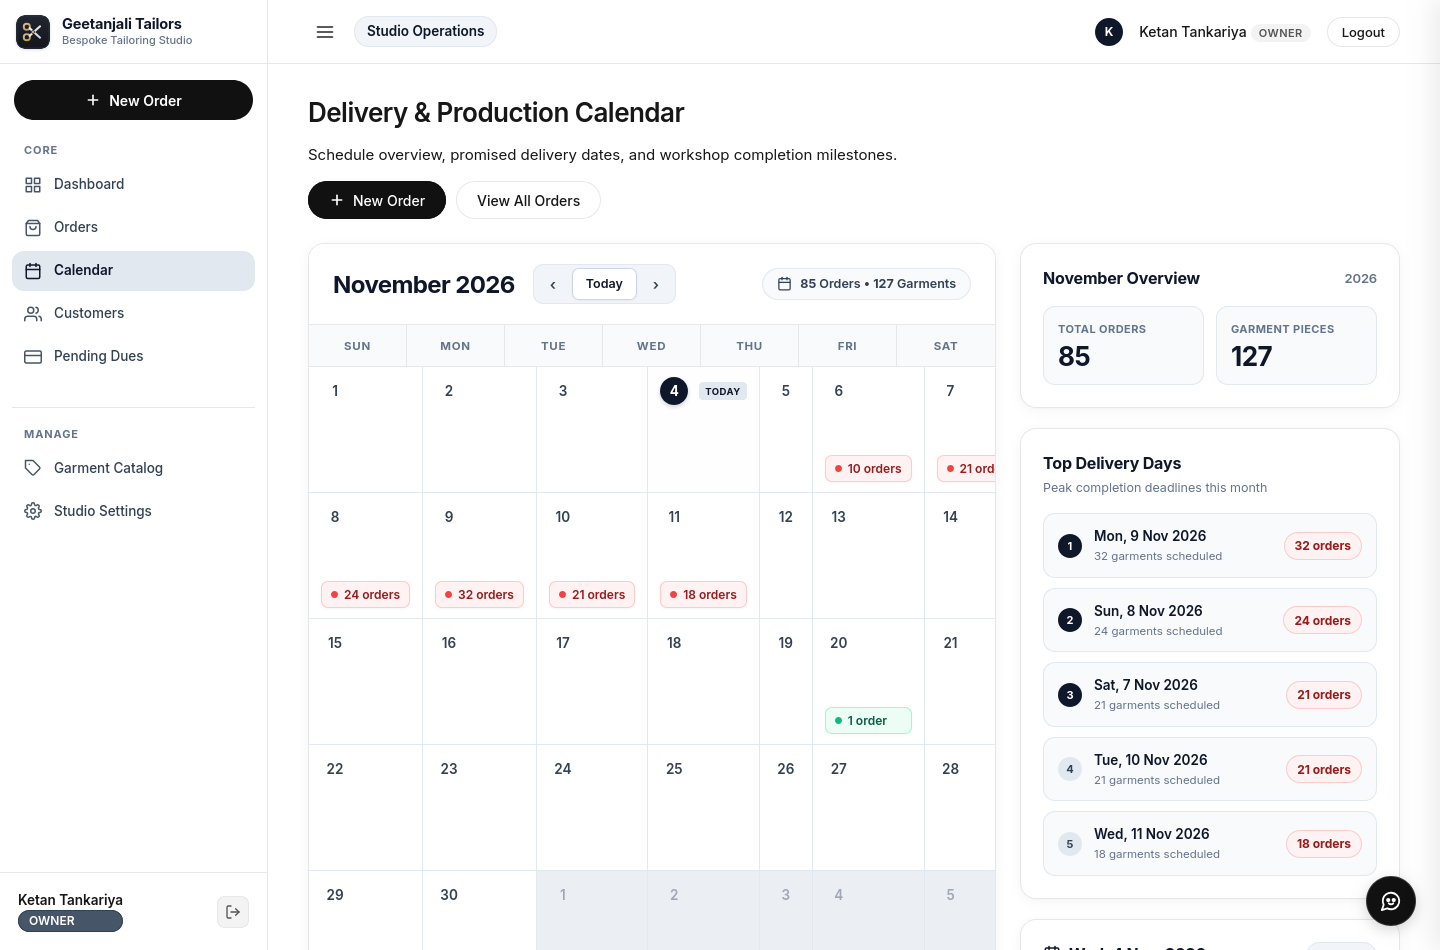
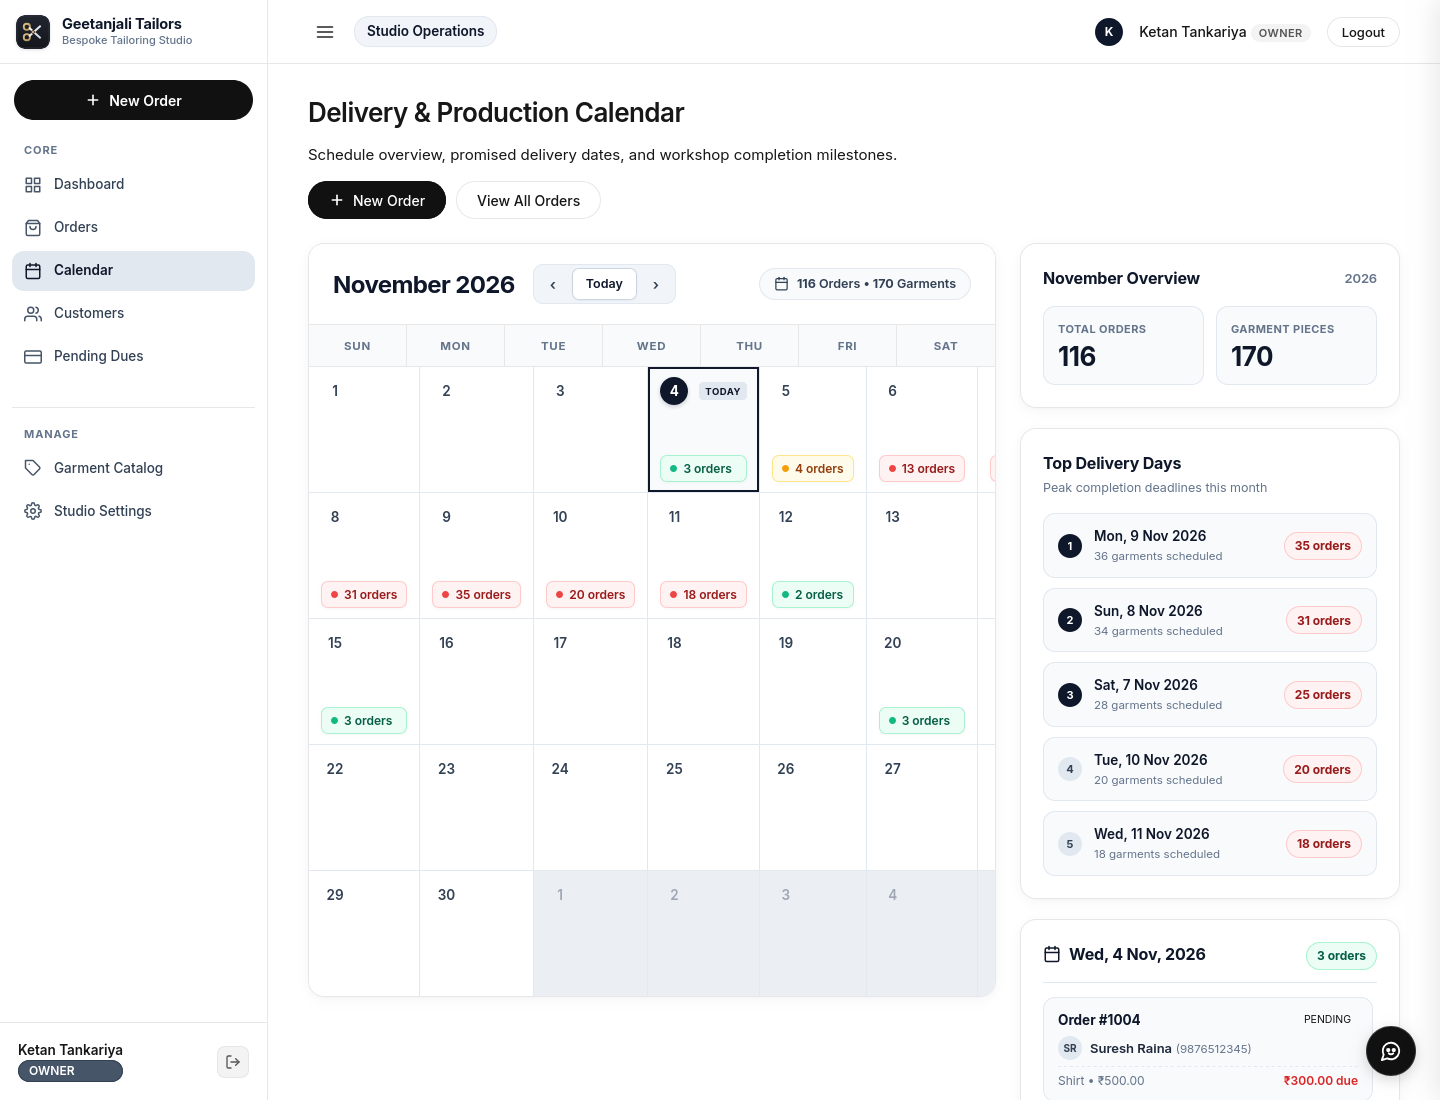
docs: replace Google Calendar copycat references with bespoke studio scheduler and update calendar screenshot

diff --git a/System/src/main/resources/templates/calendar/index.html b/System/src/main/resources/templates/calendar/index.html
@@ -39,7 +39,7 @@
         <!-- Master Calendar Layout Grid: Left Boxed Grid + Right Month Sidebar -->
         <div class="calendar-page-layout">
 
-            <!-- LEFT COLUMN: GOOGLE CALENDAR-STYLE BOXED MONTH VIEW -->
+            <!-- LEFT COLUMN: PRODUCTION CALENDAR MONTH VIEW -->
             <section class="calendar-card">
 
                 <!-- Calendar Header Bar with Navigation Controls -->

diff --git a/System/src/main/resources/static/js/calendar.js b/System/src/main/resources/static/js/calendar.js
@@ -1,4 +1,4 @@
-// calendar.js: Interactive controller for Google Calendar-style delivery scheduler
+// calendar.js: Interactive controller for production delivery scheduler
 document.addEventListener('DOMContentLoaded', function() {
     const dayBoxes = document.querySelectorAll('.calendar-day-box');
     const selectedDayTitle = document.getElementById('selectedDayTitle');

diff --git a/System/src/main/resources/static/css/calendar.css b/System/src/main/resources/static/css/calendar.css
@@ -1,5 +1,5 @@
 /* ==========================================================================
-   GEETANJALI TAILORS - MODERN GOOGLE CALENDAR-STYLE DELIVERY SCHEDULER
+   GEETANJALI TAILORS - PRODUCTION & DELIVERY WORKLOAD SCHEDULER
    Sarvam AI / Indus SaaS Theme - Refined Executive Edition
    ========================================================================== */
 

diff --git a/System/src/main/java/com/geetanjali/backend/service/CalendarService.java b/System/src/main/java/com/geetanjali/backend/service/CalendarService.java
@@ -29,7 +29,7 @@ import java.util.Map;
 import java.util.Set;
 import java.util.stream.Collectors;
 
-// CalendarService: Manages Google Calendar-style delivery scheduling, daily capacity rules,
+// CalendarService: Manages studio delivery scheduling, daily capacity rules,
 // overbooking detection (5 soft limit, 10 hard limit), and monthly delivery metrics.
 @Service
 @Transactional(readOnly = true)
@@ -57,14 +57,14 @@ public class CalendarService {
         return DayCapacityDto.of(date, orderCount, itemCount);
     }
 
-    // Builds the full Google Calendar style boxed month view with 7-column Sun..Sat grid,
+    // Builds the full studio boxed month view with 7-column Sun..Sat grid,
     // order tags, color-coded capacity indicators, and monthly top delivery days sidebar.
     public MonthCalendarDto getMonthCalendar(int year, int monthValue) {
         LocalDate today = LocalDate.now(clock);
         LocalDate firstDayOfMonth = LocalDate.of(year, monthValue, 1);
         LocalDate lastDayOfMonth = firstDayOfMonth.plusMonths(1).minusDays(1);
 
-        // Google Calendar Sun-first layout: Sunday = 0, Monday = 1, ..., Saturday = 6
+        // Standard 7-day Sunday-first layout: Sunday = 0, Monday = 1, ..., Saturday = 6
         int startDayOfWeek = firstDayOfMonth.getDayOfWeek().getValue() % 7;
         LocalDate gridStartDate = firstDayOfMonth.minusDays(startDayOfWeek);
 

diff --git a/System/src/main/java/com/geetanjali/backend/dto/calendar/CalendarDaySummaryDto.java b/System/src/main/java/com/geetanjali/backend/dto/calendar/CalendarDaySummaryDto.java
@@ -3,7 +3,7 @@ package com.geetanjali.backend.dto.calendar;
 import java.time.LocalDate;
 import java.util.List;
 
-// CalendarDaySummaryDto: Represents a single day box within the Google Calendar style grid.
+// CalendarDaySummaryDto: Represents a single day cell within the studio production grid.
 public record CalendarDaySummaryDto(
         LocalDate date,
         int dayOfMonth,
@@ -11,7 +11,7 @@ public record CalendarDaySummaryDto(
         boolean isToday,
         long orderCount,
         long itemCount,
-        String tagColor,       // "NONE", "GREEN" (< 4), "YELLOW" (4-5), "RED" (5+)
+        String tagColor,       // "NONE", "GREEN", "YELLOW", "RED"
         String tagLabel,       // e.g. "3 orders", "5 orders"
         List<CalendarOrderItemDto> items,
         String itemsJson

diff --git a/System/src/main/java/com/geetanjali/backend/service/assistant/ToolRegistryService.java b/System/src/main/java/com/geetanjali/backend/service/assistant/ToolRegistryService.java
@@ -218,7 +218,7 @@ public class ToolRegistryService {
         calProps.put("month", Map.of("type", "integer", "description", "Target month (1 to 12)."));
         tools.add(new ToolDefinition(
                 "getCalendarSchedule",
-                "Retrieves monthly Google Calendar delivery schedule, total monthly orders, and peak delivery days.",
+                "Retrieves monthly studio delivery schedule, total monthly orders, and peak delivery days.",
                 Map.of("type", "object", "properties", calProps)
         ));
 

diff --git a/System/src/main/java/com/geetanjali/backend/controller/CalendarController.java b/System/src/main/java/com/geetanjali/backend/controller/CalendarController.java
@@ -12,7 +12,7 @@ import org.springframework.web.bind.annotation.RequestParam;
 import java.time.Clock;
 import java.time.LocalDate;
 
-// CalendarController: Serves the Google Calendar-style boxed delivery schedule page,
+// CalendarController: Serves the studio delivery and production schedule page,
 // month view navigation, capacity tags, and monthly metrics sidebar.
 @Controller
 @RequestMapping("/calendar")

diff --git a/docs/04-ORDER_LIFECYCLE_FINANCIALS_AND_CAPACITY_SCHEDULER.md b/docs/04-ORDER_LIFECYCLE_FINANCIALS_AND_CAPACITY_SCHEDULER.md
@@ -51,30 +51,30 @@ graph TD
     
     Check --> TierEval{How many orders already?}
     
-    TierEval -- "0 to 4 Orders" --> Green["GREEN TIER (Standard)<br/>• Comfortable workload<br/>• Approved immediately"]
+    TierEval -- "0 to 4 Orders" --> Standard["Standard Tier (Optimal Load)<br/>• Standard daily workload<br/>• Accepted immediately"]
     
-    TierEval -- "5 to 9 Orders" --> Yellow["YELLOW TIER (Overbooking)<br/>• Over normal capacity<br/>• Warning pop-up appears<br/>• Tailor must consciously confirm"]
+    TierEval -- "5 to 9 Orders" --> Overbook["Overbooking Tier (High Load)<br/>• Over standard capacity<br/>• Warning pop-up appears<br/>• Tailor must consciously confirm"]
     
-    TierEval -- "10 or More Orders" --> Red["RED TIER (Maximum Cap)<br/>• Absolute hard limit<br/>• Form is strictly blocked<br/>• Tailor must choose another day"]
+    TierEval -- "10 or More Orders" --> HardCap["Hard Capacity Cap<br/>• Maximum daily workload limit<br/>• Form is strictly blocked<br/>• Tailor must choose another day"]
 ```
 
 ### The 3 Workload Tiers:
-1. **Standard Capacity (0 to 4 orders / day) &rarr; GREEN**:
-   - A tailor can easily cut and stitch up to 5 orders a day with top quality.
-   - Form accepts the date smoothly with a green indicator.
-2. **Overbooking Zone (5 to 9 orders / day) &rarr; YELLOW**:
-   - The shop is already busy on this day.
+1. **Standard Capacity (0 to 4 orders / day)**:
+   - A tailor can easily cut and stitch up to 5 orders a day with top craftsmanship.
+   - The booking form accepts the date immediately without interruption.
+2. **Overbooking Zone (5 to 9 orders / day)**:
+   - The shop is already handling substantial production volume on this day.
    - If the tailor chooses this date, a clear pop-up modal appears on screen:
      > *"This day already has 6 orders scheduled. Do you want to add an overday order?"*
    - The tailor must explicitly click **"Yes, Confirm Overbooking"** to proceed.
-3. **Hard Maximum Cap (10 orders / day) &rarr; RED**:
-   - 10 orders is the absolute physical limit of what the shop can complete in a 24-hour cycle.
-   - The system **strictly blocks the form** and shows an error:
+3. **Hard Maximum Cap (10 orders / day)**:
+   - 10 orders is the absolute physical ceiling of what the workshop can complete in a 24-hour cycle.
+   - The system **strictly blocks the form** and displays a hard limit error:
      > *"Maximum daily capacity reached (10 orders already scheduled for this day). Please select another delivery date."*
 
 ---
 
-## 3. Google Calendar-Style Delivery Screen (`/calendar`)
+## 3. Production & Delivery Workload Scheduler (`/calendar`)
 
 To see the whole month at a glance, the shop has a dedicated **Delivery Calendar**:
 
@@ -85,8 +85,8 @@ To see the whole month at a glance, the shop has a dedicated **Delivery Calendar
 │  SUN       MON       TUE       WED       THU       FRI       SAT       │  MONTHLY SUMMARY        │
 │ ┌───────┐ ┌───────┐ ┌───────┐ ┌───────┐ ┌───────┐ ┌───────┐ ┌───────┐  ├─────────────────────────┤
 │ │ 1     │ │ 2     │ │ 3     │ │ 4     │ │ 5     │ │ 6     │ │ 7     │  │ Total Clothes: 84 Items │
-│ │ 2 ord │ │ 4 ord │ │ 1 ord │ │ 6 ord │ │ 8 ord │ │ 3 ord │ │ 2 ord │  │ Normal Days: 22        │
-│ │ [•]   │ │ [•]   │ │ [•]   │ │ [•]   │ │ [•]   │ │ [•]   │ │ [•]   │  │ Overbooked: 6           │
+│ │ 2 ord │ │ 4 ord │ │ 1 ord │ │ 6 ord │ │ 8 ord │ │ 3 ord │ │ 2 ord │  │ Standard Days: 22     │
+│ │ [•]   │ │ [•]   │ │ [•]   │ │ [•]   │ │ [•]   │ │ [•]   │ │ [•]   │  │ High Load Days: 6       │
 │ └───────┘ └───────┘ └───────┘ └───────┘ └───────┘ └───────┘ └───────┘  ├─────────────────────────┤
 │ ┌───────┐ ┌───────┐ ┌───────┐ ┌───────┐ ┌───────┐ ┌───────┐ ┌───────┐  │  BUSIEST DELIVERY DAYS  │
 │ │ 8     │ │ 9     │ │ 10    │ │ 11    │ │ 12    │ │ 13    │ │ 14    │  │  1. Nov 5 - 8 Clothes   │
@@ -94,7 +94,7 @@ To see the whole month at a glance, the shop has a dedicated **Delivery Calendar
 │ │ [•]   │ │ [•]   │ │ [•]   │ │ [•]   │ │ [•]   │ │ [•]   │ │ [•]   │  │  3. Nov 8 - 5 Clothes   │
 │ └───────┘ └───────┘ └───────┘ └───────┘ └───────┘ └───────┘ └───────┘  ├─────────────────────────┤
 │                                                                        │  SELECTED DAY SCHEDULE  │
-│  (Clean 7-column grid showing dates and color dots)                    │  Nov 4 (Wednesday):     │
+│  (7-column workshop month grid with daily order counters)             │  Nov 4 (Wednesday):     │
 │                                                                        │  • ORD-1004 [RM] - Pant │
 │                                                                        │  • ORD-1004 [RM] - Shirt│
 │                                                                        │  • ORD-1012 [KT] - Kurta│
@@ -103,9 +103,9 @@ To see the whole month at a glance, the shop has a dedicated **Delivery Calendar
 
 ### What You See on the Calendar:
 1. **7-Column Month Grid (Sunday to Saturday)**:
-   - Every day is shown in a clean rounded box like Google Calendar.
-   - Shows how many clothes are due that day.
-   - Has clean colored chips with dot accents (Green for light days, Yellow for busy days, Red for full days).
+   - Every day is presented in a clean rounded calendar box.
+   - Shows how many clothes are scheduled for delivery on each date.
+   - Displays workload tags with subtle dot accents.
 2. **Monthly Summary (Right Sidebar)**:
    - Total number of clothes due to be delivered this month.
    - Busiest delivery peak days ranked at the top, so tailors can cut cloth in advance.

diff --git a/PROJECT_STRUCTURE_AND_CODEBASE_REFERENCE.md b/PROJECT_STRUCTURE_AND_CODEBASE_REFERENCE.md
@@ -82,7 +82,7 @@ Geetanjali/
             │   ├── static/                       # Static Web Assets (CSS, JS)
             │   │   ├── css/
             │   │   │   ├── app.css               # Sarvam AI design tokens, theme scrollbars, modals, assistant drawer
-            │   │   │   └── calendar.css          # Google Calendar boxed month grid, capacity chips, executive sidebar
+            │   │   │   └── calendar.css          # Production calendar month grid, capacity chips, executive sidebar
             │   │   └── js/
             │   │       ├── app.js                # Global helpers: toasts, modals, password reveal
             │   │       ├── calendar.js           # Interactive calendar navigation, schedule inspector, initial avatars
@@ -94,7 +94,7 @@ Geetanjali/
             │       │   ├── login.html            # Staff & Owner login screen
             │       │   └── signup.html           # Initial owner registration screen
             │       ├── calendar/
-            │       │   └── index.html            # Google Calendar-style delivery grid, monthly stats, top days
+            │       │   └── index.html            # Production delivery calendar, monthly stats, top days
             │       ├── customers/
             │       │   ├── index.html            # Customer directory with live search & order history count
             │       │   └── detail.html           # 2-column widescreen profile: details, measurements & scrollable orders
@@ -135,7 +135,7 @@ Geetanjali/
                     │   └── GlobalModelAdvice.java      # Binds currentUser, shopName, currentUri to every template
                     ├── controller/               # Spring MVC Web Controllers (Thin HTTP Layer)
                     │   ├── AuthController.java   # Login, registration, and logout handling
-                    │   ├── CalendarController.java # Google Calendar-style month delivery view (/calendar)
+                    │   ├── CalendarController.java # Production and delivery month calendar view (/calendar)
                     │   ├── CustomerController.java # Customer directory and detailed profile view
                     │   ├── GarmentController.java# Garment catalog and template settings
                     │   ├── HomeController.java   # Main dashboard (/), metrics, customer search, top 20 orders
@@ -386,7 +386,7 @@ erDiagram
 | **Customer Lookup** | `GET /api/customers/lookup` | `CustomerApiController.lookupCustomer` | `customerService.findByMobile(normalized)` | Fast async AJAX endpoint returning JSON for live customer phone autofill in Step 1. |
 | **New Order Wizard** | `GET/POST /orders/new/*` | `OrderWizardController.*` | `orderWizardService.*`, `orderService.placeOrder(...)` | 4-step booking: 1. Customer -> 2. Garment -> 3. Measurements -> 4. Summary & Advance Deposit -> Atomic Commit. |
 | **Pending Payments**| `GET /payments/pending` | `PaymentController.showPendingPayments` | `paymentService.getPendingPaymentsSummary()` | Shop-wide unpaid balance banner, rows sorted by earliest delivery, smart due text (`"due in N days"`, `"overdue by N days"`). |
-| **Delivery Calendar**| `GET /calendar` | `CalendarController.showCalendar` | `calendarService.getMonthCalendar()`, `calendarService.getDayCapacity()` | Google Calendar-style boxed month view with capacity indicators, ranked top delivery days, and day schedule inspector. |
+| **Delivery Calendar**| `GET /calendar` | `CalendarController.showCalendar` | `calendarService.getMonthCalendar()`, `calendarService.getDayCapacity()` | Interactive month delivery grid with capacity indicators, ranked top delivery days, and day schedule inspector. |
 | **Studio AI Assistant**| `POST /api/assistant/chat` | `AssistantApiController.chat` | `assistantService.chat()`, `toolRegistryService.executeTool()` | Floating conversational drawer with streaming responses, nested measurement tables, wide mode, and live tool calling. |
 
 ---

diff --git a/README.md b/README.md
@@ -56,9 +56,9 @@ Two-column customer profile displaying complete historical orders, running outst
 
 ---
 
-### 5. Google Calendar-Style Delivery & Production Scheduler
-7-column boxed month grid with capacity dot chips (Green <4, Yellow 4-5, Red 5+), monthly delivery metrics, and top peak delivery days ranking.
-![Delivery & Production Calendar](docs/images/05-delivery-calendar.png)
+### 5. Production & Delivery Workload Scheduler
+Interactive monthly workshop schedule with real-time tailor capacity monitoring, peak delivery milestones, and an embedded deliverables inspector.
+![Production & Delivery Workload Scheduler](docs/images/05-delivery-calendar.png)
 
 ---
 
@@ -87,11 +87,11 @@ Secured with Spring Security 6, providing strict role-based authorization separa
 - Reusable anatomical snapshots: repeat customer measurements are pre-filled automatically on new orders.
 - Nested tabular visualization across the web UI and conversational assistant drawer.
 
-### 2. Tailor Workload Capacity & Google Calendar Scheduler (`/calendar`)
-- **Standard Capacity (0–4 Orders)**: Optimal production load indicated with **Green** chips.
+### 2. Tailor Workload Capacity & Monthly Production Scheduler (`/calendar`)
+- **Standard Capacity (0–4 Orders)**: Optimal daily production volume processed seamlessly without interruption.
 - **Overbooking Zone (5–9 Orders)**: Requires conscious tailor confirmation via an interactive warning modal dialog.
 - **Hard Maximum Cap (10 Orders)**: Strict server-side and client-side block to prevent artisan exhaustion.
-- **Google Calendar Grid**: 7-column boxed monthly calendar with ranked top delivery days and day schedule inspector.
+- **Monthly Production Grid**: 7-day studio calendar with ranked top delivery days and day schedule inspector.
 
 ### 3. Financial Integrity & Zero-Balance Delivery Invariant
 - Dynamic runtime balance computation: $\text{Balance} = \sum(\text{item price}) - \sum(\text{payments})$.
@@ -237,7 +237,7 @@ For in-depth architectural specifications and operational flows, refer to the do
 1. **[01. Problem Identification & Origin Story](docs/01-PROBLEM_IDENTIFICATION_AND_ORIGIN_STORY.md)**: Academic context, real-world tailoring challenges, and project origin.
 2. **[02. System Architecture, Workflows & ERD](docs/02-SYSTEM_ARCHITECTURE_FLOWS_AND_ERD.md)**: Layered architecture, sequence diagrams, and 11-table database schema.
 3. **[03. Dynamic Measurement Engine](docs/03-DYNAMIC_MEASUREMENT_ENGINE_AND_SPECIFICATIONS.md)**: Dynamic parameter architecture, JSON modeling, and garment specifications.
-4. **[04. Order Lifecycle & Capacity Scheduler](docs/04-ORDER_LIFECYCLE_FINANCIALS_AND_CAPACITY_SCHEDULER.md)**: Multi-step booking, 5-order capacity rule, and Google Calendar view.
+4. **[04. Order Lifecycle & Capacity Scheduler](docs/04-ORDER_LIFECYCLE_FINANCIALS_AND_CAPACITY_SCHEDULER.md)**: Multi-step booking, 5-order capacity rule, and monthly production calendar.
 5. **[05. Studio AI Assistant & Tool Integration](docs/05-STUDIO_AI_ASSISTANT_AND_TOOL_INTEGRATION.md)**: Dual LLM fallback, floating drawer, and structured tool calling.
 
 ---

diff --git a/docs/01-PROBLEM_IDENTIFICATION_AND_ORIGIN_STORY.md b/docs/01-PROBLEM_IDENTIFICATION_AND_ORIGIN_STORY.md
@@ -92,7 +92,7 @@ By spending time at the shop, Shubham and Sumit wrote down the 6 main everyday p
 | Torn paper books & lost measurements | All customer measurements are saved permanently in a secure database. Finding them takes less than a second using just their phone number. |
 | Customer measurement differences | Saved measurements automatically fill in when making a new order. Tailors can see old values instantly. |
 | Tailors getting too many orders on one day | A smart **Workload Limit** protects the tailor: standard limit is 5 orders/day. At 5–9 orders, an alert asks if you really want to overbook. At 10 orders, it blocks adding more so tailors do not burn out. |
-| Weekend delivery rush | A **Google Calendar-style screen** shows the whole month at a glance with color dots (Green = easy day, Yellow = busy day, Red = full). |
+| Weekend delivery rush | An interactive **Production & Delivery Calendar** shows the entire month at a glance, highlighting daily order counts and upcoming delivery deadlines. |
 | Pinned paper slips falling off cloth | Tailors can take a quick photo of the customer's cloth and save it directly with the order. |
 | Advance payment arguments | Every payment (Cash or UPI) is recorded with date and time. Balance is calculated automatically. |
 | Forgotten customer balances | A **Pending Payments** page lists every customer who owes money, sorted by delivery date. |

diff --git a/docs/05-STUDIO_AI_ASSISTANT_AND_TOOL_INTEGRATION.md b/docs/05-STUDIO_AI_ASSISTANT_AND_TOOL_INTEGRATION.md
@@ -74,7 +74,7 @@ The assistant does not make up or hallucinate fake numbers. When asked a questio
 - **Example Question**: *"What is the balance pending on order ORD-202611-0004?"*
 
 ### 3. `checkDeliveryCapacity`
-- **What it does**: Checks how many clothes are already scheduled for any date, and whether the date is Green, Yellow (overbooking), or Red (full).
+- **What it does**: Checks how many garments are already scheduled for any date, and whether the workshop has standard capacity, requires overbooking confirmation, or has reached its maximum daily cap.
 - **Example Question**: *"Can we take 2 more shirts for delivery on Friday?"*
 
 ### 4. `getCalendarSchedule`
